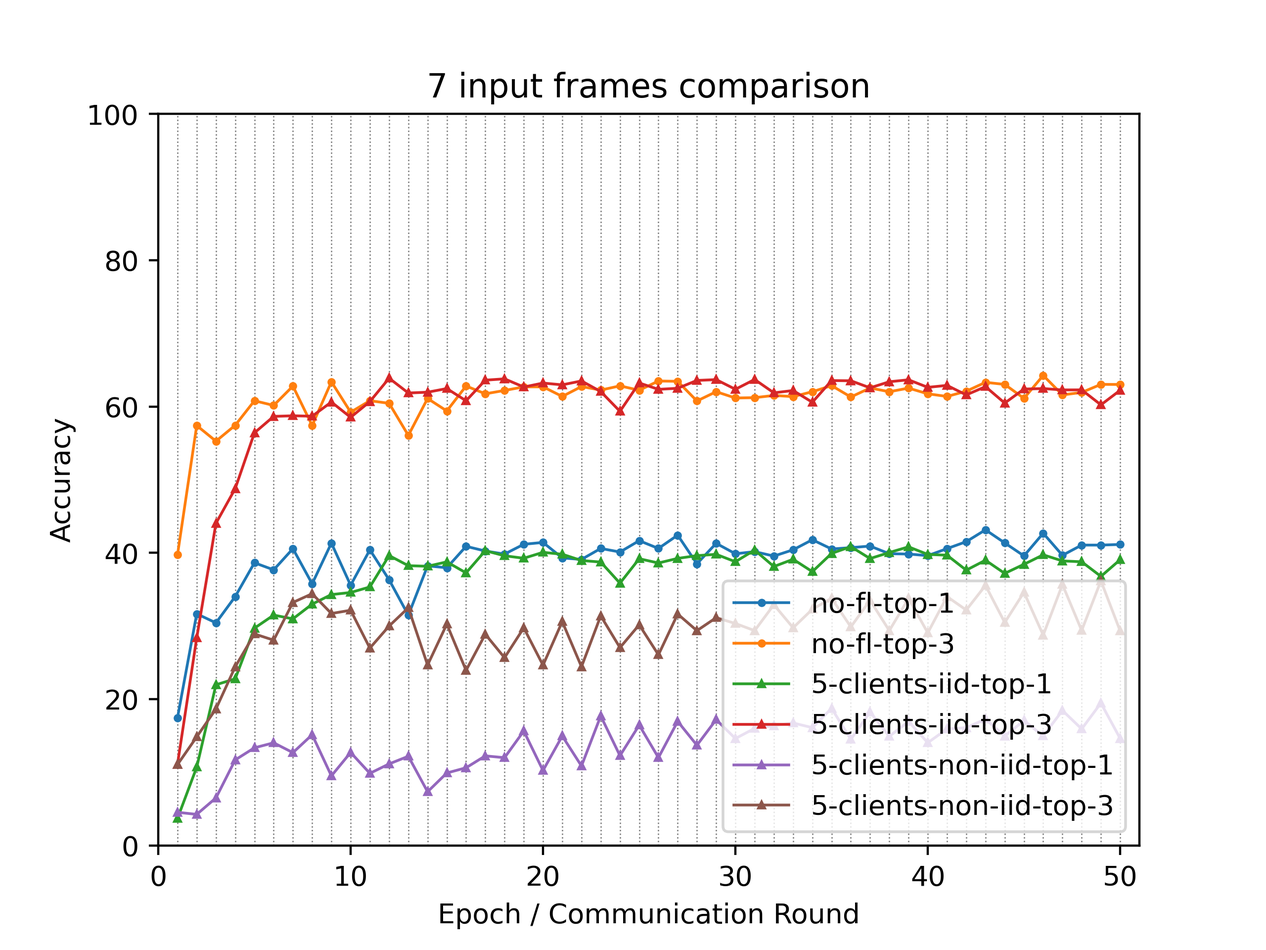
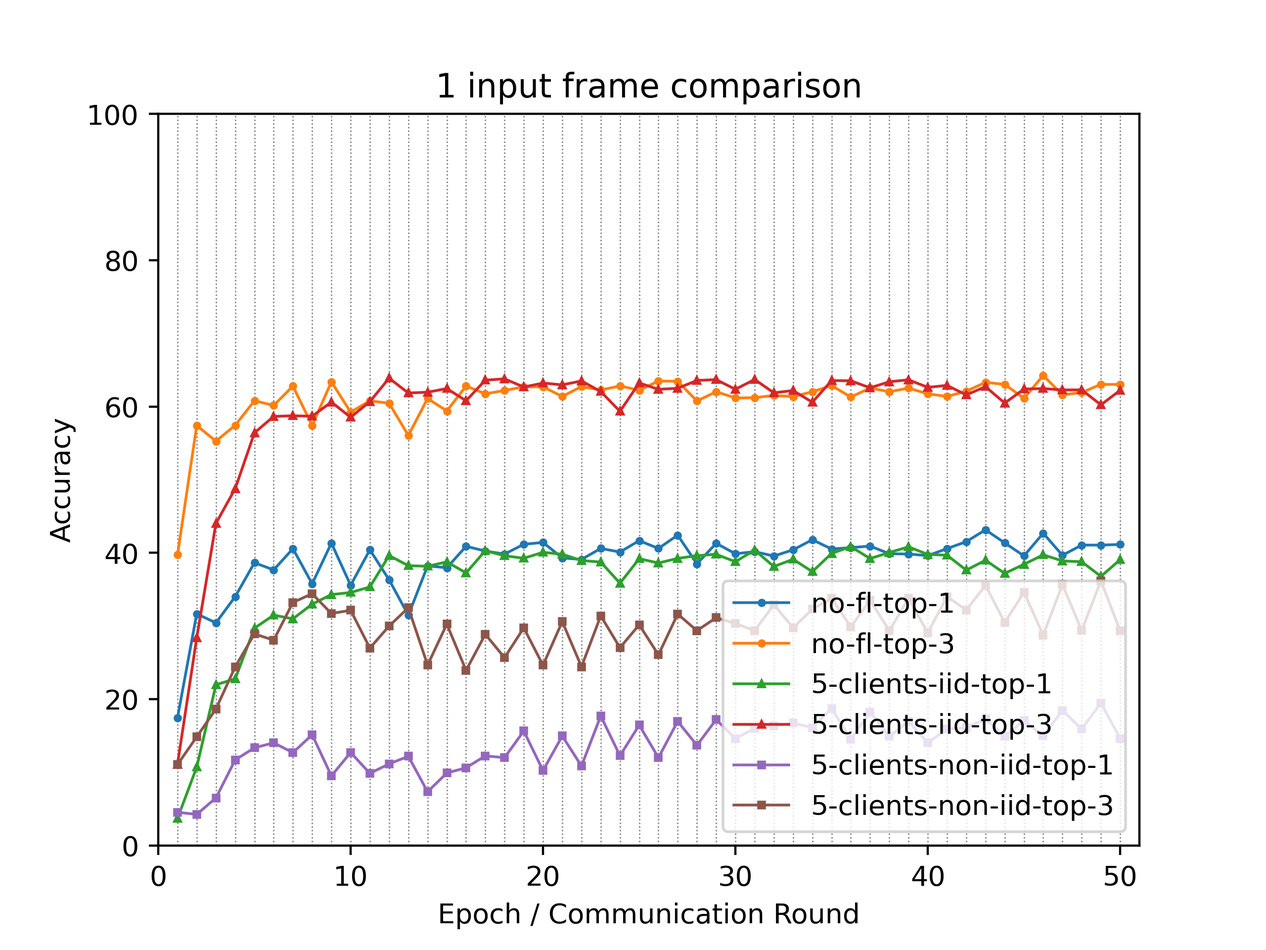
More results

Changed region(s): [[0.3438, 0.0625, 0.6875, 0.125]]

diff --git a/results/5_clients_7_frames/raw_5_clients_non_iid_7_frames.py b/results/5_clients_7_frames/raw_5_clients_non_iid_7_frames.py
@@ -1,0 +1,1 @@
+results = [{'msg': 'Model aggregation done!\nGlobal model written to persistent storage.', 'test_result': {'test-top1': 3.7037037037037037, 'test-top3': 10.993237793907811, 'test_cluster-top1': 3.7037037037037037, 'test_cluster-top3': 8.486878838637633}, 'elapsed_time': 166.45572900772095}, {'msg': 'Model aggregation done!\nGlobal model written to persistent storage.', 'test_result': {'test-top1': 4.293070289720206, 'test-top3': 20.559588059989135, 'test_cluster-top1': 4.590855512128544, 'test_cluster-top3': 21.322662696197035}, 'elapsed_time': 335.90355229377747}, {'msg': 'Model aggregation done!\nGlobal model written to persistent storage.', 'test_result': {'test-top1': 6.532663316582915, 'test-top3': 27.71884111728286, 'test_cluster-top1': 8.337986227433463, 'test_cluster-top3': 28.612196786401142}, 'elapsed_time': 504.5325434207916}, {'msg': 'Model aggregation done!\nGlobal model written to persistent storage.', 'test_result': {'test-top1': 6.774613809789689, 'test-top3': 16.37818723245859, 'test_cluster-top1': 7.22749550220237, 'test_cluster-top3': 17.73683230969663}, 'elapsed_time': 672.9317405223846}, {'msg': 'Model aggregation done!\nGlobal model written to persistent storage.', 'test_result': {'test-top1': 6.526459457782741, 'test-top3': 23.41336310806904, 'test_cluster-top1': 5.111979651343136, 'test_cluster-top3': 22.699919348415648}, 'elapsed_time': 841.4730429649353}, {'msg': 'Model aggregation done!\nGlobal model written to persistent storage.', 'test_result': {'test-top1': 8.49928655623798, 'test-top3': 23.02252000744463, 'test_cluster-top1': 7.56250387741175, 'test_cluster-top3': 25.14423971710404}, 'elapsed_time': 1009.692296743393}, {'msg': 'Model aggregation done!\nGlobal model written to persistent storage.', 'test_result': {'test-top1': 11.433711768720144, 'test-top3': 27.594763942699338, 'test_cluster-top1': 13.158384515168434, 'test_cluster-top3': 30.070103603022012}, 'elapsed_time': 1177.5003213882446}, {'msg': 'Model aggregation done!\nGlobal model written to persistent storage.', 'test_result': {'test-top1': 14.349525404565128, 'test-top3': 36.354612567597975, 'test_cluster-top1': 12.271232706033619, 'test_cluster-top3': 36.46628202363452}, 'elapsed_time': 1345.5594830513}, {'msg': 'Model aggregation done!\nGlobal model written to persistent storage.', 'test_result': {'test-top1': 12.959861033326218, 'test-top3': 28.450896457123307, 'test_cluster-top1': 9.572554128668031, 'test_cluster-top3': 29.90880327516413}, 'elapsed_time': 1513.3714590072632}, {'msg': 'Model aggregation done!\nGlobal model written to persistent storage.', 'test_result': {'test-top1': 10.552763819095478, 'test-top3': 21.08071220299026, 'test_cluster-top1': 10.503132948694088, 'test_cluster-top3': 21.955456293814752}, 'elapsed_time': 1682.61843252182}, {'msg': 'Model aggregation done!\nGlobal model written to persistent storage.', 'test_result': {'test-top1': 21.099323777497514, 'test-top3': 41.10056454925755, 'test_cluster-top1': 18.51851851851852, 'test_cluster-top3': 39.133941311495754}, 'elapsed_time': 1851.5281217098236}, {'msg': 'Model aggregation done!\nGlobal model written to persistent storage.', 'test_result': {'test-top1': 17.20330045288169, 'test-top3': 29.604814194428936, 'test_cluster-top1': 20.10670637136299, 'test_cluster-top3': 28.283392269991936}, 'elapsed_time': 2020.209311723709}, {'msg': 'Model aggregation done!\nGlobal model written to persistent storage.', 'test_result': {'test-top1': 16.750418758575744, 'test-top3': 37.14250263474672, 'test_cluster-top1': 14.610087472515815, 'test_cluster-top3': 34.642347540169986}, 'elapsed_time': 2188.758001804352}, {'msg': 'Model aggregation done!\nGlobal model written to persistent storage.', 'test_result': {'test-top1': 21.91823314101371, 'test-top3': 40.827594763943175, 'test_cluster-top1': 28.469508033997148, 'test_cluster-top3': 49.53160866058688}, 'elapsed_time': 2358.13822889328}, {'msg': 'Model aggregation done!\nGlobal model written to persistent storage.', 'test_result': {'test-top1': 18.121471554597427, 'test-top3': 46.98802654872913, 'test_cluster-top1': 21.17377008451955, 'test_cluster-top3': 49.61846268378932}, 'elapsed_time': 2525.927980184555}, {'msg': 'Model aggregation done!\nGlobal model written to persistent storage.', 'test_result': {'test-top1': 20.90080029778522, 'test-top3': 35.393014454991004, 'test_cluster-top1': 24.54246541348719, 'test_cluster-top3': 38.321235808672995}, 'elapsed_time': 2694.9525849819183}, {'msg': 'Model aggregation done!\nGlobal model written to persistent storage.', 'test_result': {'test-top1': 18.83491531685406, 'test-top3': 38.84235994599432, 'test_cluster-top1': 20.43551088682556, 'test_cluster-top3': 40.17618958992493}, 'elapsed_time': 2863.543007850647}, {'msg': 'Model aggregation done!\nGlobal model written to persistent storage.', 'test_result': {'test-top1': 13.276257832371735, 'test-top3': 28.804516409206528, 'test_cluster-top1': 13.977293876791364, 'test_cluster-top3': 26.006576090328185}, 'elapsed_time': 3031.743930578232}, {'msg': 'Model aggregation done!\nGlobal model written to persistent storage.', 'test_result': {'test-top1': 13.139772937347963, 'test-top3': 38.69346733479015, 'test_cluster-top1': 14.740368508266096, 'test_cluster-top3': 47.63943172653391}, 'elapsed_time': 3200.6698327064514}, {'msg': 'Model aggregation done!\nGlobal model written to persistent storage.', 'test_result': {'test-top1': 20.987654319804363, 'test-top3': 38.79272907559293, 'test_cluster-top1': 23.74216762826478, 'test_cluster-top3': 34.87809417457659}, 'elapsed_time': 3368.173099756241}, {'msg': 'Model aggregation done!\nGlobal model written to persistent storage.', 'test_result': {'test-top1': 19.00862336373224, 'test-top3': 38.90439853588932, 'test_cluster-top1': 19.244369998138843, 'test_cluster-top3': 37.73186922265649}, 'elapsed_time': 3536.332264184952}, {'msg': 'Model aggregation done!\nGlobal model written to persistent storage.', 'test_result': {'test-top1': 22.78677337280137, 'test-top3': 45.28816924008478, 'test_cluster-top1': 22.94807370160589, 'test_cluster-top3': 51.541658910659876}, 'elapsed_time': 3704.08846449852}, {'msg': 'Model aggregation done!\nGlobal model written to persistent storage.', 'test_result': {'test-top1': 16.123829021651467, 'test-top3': 39.344872510701656, 'test_cluster-top1': 16.874495936472485, 'test_cluster-top3': 40.616663564737266}, 'elapsed_time': 3871.85297703743}, {'msg': 'Model aggregation done!\nGlobal model written to persistent storage.', 'test_result': {'test-top1': 27.861529871343464, 'test-top3': 40.18239344754181, 'test_cluster-top1': 28.63701222136518, 'test_cluster-top3': 42.9989453421107}, 'elapsed_time': 4038.8875024318695}, {'msg': 'Model aggregation done!\nGlobal model written to persistent storage.', 'test_result': {'test-top1': 18.23314101371053, 'test-top3': 37.02462931943669, 'test_cluster-top1': 19.87716359575656, 'test_cluster-top3': 34.74781313977294}, 'elapsed_time': 4207.389463186264}, {'msg': 'Model aggregation done!\nGlobal model written to persistent storage.', 'test_result': {'test-top1': 32.75637446491718, 'test-top3': 44.45064830324462, 'test_cluster-top1': 32.632297288913705, 'test_cluster-top3': 44.75463738445313}, 'elapsed_time': 4376.427686929703}, {'msg': 'Model aggregation done!\nGlobal model written to persistent storage.', 'test_result': {'test-top1': 16.806253489670574, 'test-top3': 35.455053042992745, 'test_cluster-top1': 21.59563248340468, 'test_cluster-top3': 40.95787579874682}, 'elapsed_time': 4544.164435625076}, {'msg': 'Model aggregation done!\nGlobal model written to persistent storage.', 'test_result': {'test-top1': 26.484273216048294, 'test-top3': 46.193932624200166, 'test_cluster-top1': 23.35132452196057, 'test_cluster-top3': 42.24827842918295}, 'elapsed_time': 4710.582869529724}, {'msg': 'Model aggregation done!\nGlobal model written to persistent storage.', 'test_result': {'test-top1': 22.40213412742726, 'test-top3': 38.07928531546622, 'test_cluster-top1': 29.331844407221293, 'test_cluster-top3': 42.54606365159129}, 'elapsed_time': 4880.881422281265}, {'msg': 'Model aggregation done!\nGlobal model written to persistent storage.', 'test_result': {'test-top1': 23.915875674669646, 'test-top3': 43.36497301321422, 'test_cluster-top1': 22.28426081022396, 'test_cluster-top3': 46.07605930889013}, 'elapsed_time': 5049.197821855545}, {'msg': 'Model aggregation done!\nGlobal model written to persistent storage.', 'test_result': {'test-top1': 17.476270240089335, 'test-top3': 40.72212916434022, 'test_cluster-top1': 21.46535144860103, 'test_cluster-top3': 46.74607605930889}, 'elapsed_time': 5217.587727069855}, {'msg': 'Model aggregation done!\nGlobal model written to persistent storage.', 'test_result': {'test-top1': 25.634344560424495, 'test-top3': 39.487561261212385, 'test_cluster-top1': 27.551336931571438, 'test_cluster-top3': 37.930392704262054}, 'elapsed_time': 5384.997723579407}, {'msg': 'Model aggregation done!\nGlobal model written to persistent storage.', 'test_result': {'test-top1': 19.61039766734909, 'test-top3': 45.83410881568336, 'test_cluster-top1': 23.562255723059742, 'test_cluster-top3': 54.28996836032012}, 'elapsed_time': 5552.315092563629}, {'msg': 'Model aggregation done!\nGlobal model written to persistent storage.', 'test_result': {'test-top1': 30.0142688752404, 'test-top3': 46.522737142502635, 'test_cluster-top1': 33.45741050933681, 'test_cluster-top3': 52.50325702587009}, 'elapsed_time': 5720.663455247879}, {'msg': 'Model aggregation done!\nGlobal model written to persistent storage.', 'test_result': {'test-top1': 26.422234629939823, 'test-top3': 47.83795520813946, 'test_cluster-top1': 25.39239406911099, 'test_cluster-top3': 50.67311867981885}, 'elapsed_time': 5888.952857971191}, {'msg': 'Model aggregation done!\nGlobal model written to persistent storage.', 'test_result': {'test-top1': 23.72355605044431, 'test-top3': 35.461256901792915, 'test_cluster-top1': 25.193870586085477, 'test_cluster-top3': 40.7035175879397}, 'elapsed_time': 6057.0156581401825}, {'msg': 'Model aggregation done!\nGlobal model written to persistent storage.', 'test_result': {'test-top1': 22.079533469818227, 'test-top3': 43.023760779204665, 'test_cluster-top1': 20.702276816179662, 'test_cluster-top3': 45.312984676468766}, 'elapsed_time': 6223.66389131546}, {'msg': 'Model aggregation done!\nGlobal model written to persistent storage.', 'test_result': {'test-top1': 34.14603883615609, 'test-top3': 48.923630498169864, 'test_cluster-top1': 33.76139959054532, 'test_cluster-top3': 50.046528941001306}, 'elapsed_time': 6392.192548274994}, {'msg': 'Model aggregation done!\nGlobal model written to persistent storage.', 'test_result': {'test-top1': 30.138346051243875, 'test-top3': 46.4606985545009, 'test_cluster-top1': 33.14101371052795, 'test_cluster-top3': 48.73131087536448}, 'elapsed_time': 6560.953839540482}, {'msg': 'Model aggregation done!\nGlobal model written to persistent storage.', 'test_result': {'test-top1': 24.257087904892664, 'test-top3': 34.084000248154354, 'test_cluster-top1': 24.064768285873814, 'test_cluster-top3': 33.94751535455053}, 'elapsed_time': 6729.287982463837}, {'msg': 'Model aggregation done!\nGlobal model written to persistent storage.', 'test_result': {'test-top1': 31.881630374092687, 'test-top3': 53.17947763508903, 'test_cluster-top1': 31.83820336249147, 'test_cluster-top3': 57.00105465599603}, 'elapsed_time': 6897.7102954387665}, {'msg': 'Model aggregation done!\nGlobal model written to persistent storage.', 'test_result': {'test-top1': 34.20187356535765, 'test-top3': 46.14430175569204, 'test_cluster-top1': 34.43141634096408, 'test_cluster-top3': 46.61579502450524}, 'elapsed_time': 7067.011428833008}, {'msg': 'Model aggregation done!\nGlobal model written to persistent storage.', 'test_result': {'test-top1': 30.0142688752404, 'test-top3': 50.89025373782493, 'test_cluster-top1': 31.068924871269928, 'test_cluster-top3': 56.659842421986475}, 'elapsed_time': 7235.37380695343}, {'msg': 'Model aggregation done!\nGlobal model written to persistent storage.', 'test_result': {'test-top1': 28.308207703299363, 'test-top3': 43.60071964762082, 'test_cluster-top1': 32.51442397171041, 'test_cluster-top3': 45.86512810968422}, 'elapsed_time': 7404.288648843765}, {'msg': 'Model aggregation done!\nGlobal model written to persistent storage.', 'test_result': {'test-top1': 35.75283826540108, 'test-top3': 54.37682238328589, 'test_cluster-top1': 41.65891184316645, 'test_cluster-top3': 58.7071158260438}, 'elapsed_time': 7573.465892076492}, {'msg': 'Model aggregation done!\nGlobal model written to persistent storage.', 'test_result': {'test-top1': 29.82815311123519, 'test-top3': 45.07723804206216, 'test_cluster-top1': 32.36553136050623, 'test_cluster-top3': 47.36025808052609}, 'elapsed_time': 7742.181866407394}, {'msg': 'Model aggregation done!\nGlobal model written to persistent storage.', 'test_result': {'test-top1': 25.83286804392332, 'test-top3': 45.48669272287363, 'test_cluster-top1': 27.588560084372478, 'test_cluster-top3': 45.42465413487189}, 'elapsed_time': 7909.567089796066}, {'msg': 'Model aggregation done!\nGlobal model written to persistent storage.', 'test_result': {'test-top1': 33.45741050744354, 'test-top3': 46.12569017929152, 'test_cluster-top1': 32.68192815931509, 'test_cluster-top3': 43.76822383522551}, 'elapsed_time': 8078.503528594971}, {'msg': 'Model aggregation done!\nGlobal model written to persistent storage.', 'test_result': {'test-top1': 19.579378373348224, 'test-top3': 42.490228922389726, 'test_cluster-top1': 25.857683479124017, 'test_cluster-top3': 43.092003226006575}, 'elapsed_time': 8246.165164709091}, {'msg': 'Model aggregation done!\nGlobal model written to persistent storage.', 'test_result': {'test-top1': 35.876915439511286, 'test-top3': 49.32688132018115, 'test_cluster-top1': 37.396860847447115, 'test_cluster-top3': 51.157019666232394}, 'elapsed_time': 8414.397685527802}]

diff --git a/results/5_clients_7_frames/raw_5_clients_iid_7_frames.py b/results/5_clients_7_frames/raw_5_clients_iid_7_frames.py
@@ -1,0 +1,1 @@
+results = [{'msg': 'Model aggregation done!\nGlobal model written to persistent storage.', 'test_result': {'test-top1': 3.7967615857063093, 'test-top3': 11.315838451516843, 'test_cluster-top1': 5.633103790557727, 'test_cluster-top3': 11.365469321918233}, 'elapsed_time': 171.1372058391571}, {'msg': 'Model aggregation done!\nGlobal model written to persistent storage.', 'test_result': {'test-top1': 21.521186177802594, 'test-top3': 46.00161300328804, 'test_cluster-top1': 28.903778150009305, 'test_cluster-top3': 59.79899497487437}, 'elapsed_time': 343.71112847328186}, {'msg': 'Model aggregation done!\nGlobal model written to persistent storage.', 'test_result': {'test-top1': 61.56089087270375, 'test-top3': 85.73732861650738, 'test_cluster-top1': 64.74967429599305, 'test_cluster-top3': 88.59110366648055}, 'elapsed_time': 514.0802545547485}, {'msg': 'Model aggregation done!\nGlobal model written to persistent storage.', 'test_result': {'test-top1': 61.300328803096455, 'test-top3': 85.607047583597, 'test_cluster-top1': 59.20342452934772, 'test_cluster-top3': 86.49419939202184}, 'elapsed_time': 690.0395998954773}, {'msg': 'Model aggregation done!\nGlobal model written to persistent storage.', 'test_result': {'test-top1': 67.56002233294505, 'test-top3': 88.02034865686457, 'test_cluster-top1': 72.74644829012692, 'test_cluster-top3': 93.07028972020596}, 'elapsed_time': 856.520486831665}, {'msg': 'Model aggregation done!\nGlobal model written to persistent storage.', 'test_result': {'test-top1': 64.3588311915821, 'test-top3': 88.00173707857078, 'test_cluster-top1': 70.12841987574365, 'test_cluster-top3': 94.08772256343445}, 'elapsed_time': 1031.2711973190308}, {'msg': 'Model aggregation done!\nGlobal model written to persistent storage.', 'test_result': {'test-top1': 70.59991314408353, 'test-top3': 90.7252310937403, 'test_cluster-top1': 75.94763942794, 'test_cluster-top3': 95.98610335628761}, 'elapsed_time': 1205.4813406467438}, {'msg': 'Model aggregation done!\nGlobal model written to persistent storage.', 'test_result': {'test-top1': 68.01910788392124, 'test-top3': 88.17544512686891, 'test_cluster-top1': 77.60406973042627, 'test_cluster-top3': 93.38668651901483}, 'elapsed_time': 1378.0978691577911}, {'msg': 'Model aggregation done!\nGlobal model written to persistent storage.', 'test_result': {'test-top1': 70.35175879207658, 'test-top3': 91.05403561014951, 'test_cluster-top1': 76.7107140641479, 'test_cluster-top3': 94.89422420745704}, 'elapsed_time': 1550.5410466194153}, {'msg': 'Model aggregation done!\nGlobal model written to persistent storage.', 'test_result': {'test-top1': 70.33935107447624, 'test-top3': 90.24133010732676, 'test_cluster-top1': 78.857249209008, 'test_cluster-top3': 95.81239530988275}, 'elapsed_time': 1724.7236261367798}, {'msg': 'Model aggregation done!\nGlobal model written to persistent storage.', 'test_result': {'test-top1': 69.69414976020481, 'test-top3': 90.34679570692971, 'test_cluster-top1': 78.875860781622, 'test_cluster-top3': 96.51343135430237}, 'elapsed_time': 1899.6020896434784}, {'msg': 'Model aggregation done!\nGlobal model written to persistent storage.', 'test_result': {'test-top1': 74.99844903388001, 'test-top3': 91.39524784415907, 'test_cluster-top1': 81.36981202118508, 'test_cluster-top3': 95.62007568707736}, 'elapsed_time': 2072.3005611896515}, {'msg': 'Model aggregation done!\nGlobal model written to persistent storage.', 'test_result': {'test-top1': 74.30982070469415, 'test-top3': 92.4499038401886, 'test_cluster-top1': 79.62032384000942, 'test_cluster-top3': 95.32229046466902}, 'elapsed_time': 2247.6812856197357}, {'msg': 'Model aggregation done!\nGlobal model written to persistent storage.', 'test_result': {'test-top1': 71.56151125621719, 'test-top3': 92.04665301628404, 'test_cluster-top1': 77.36211923816614, 'test_cluster-top3': 94.61505056144922}, 'elapsed_time': 2422.764358520508}, {'msg': 'Model aggregation done!\nGlobal model written to persistent storage.', 'test_result': {'test-top1': 69.97952726595943, 'test-top3': 89.42242074570383, 'test_cluster-top1': 75.19076865810534, 'test_cluster-top3': 92.54296172219121}, 'elapsed_time': 2589.2212619781494}, {'msg': 'Model aggregation done!\nGlobal model written to persistent storage.', 'test_result': {'test-top1': 70.95973695260034, 'test-top3': 91.10987033935108, 'test_cluster-top1': 75.08530305850239, 'test_cluster-top3': 92.95241640300267}, 'elapsed_time': 2755.4908623695374}, {'msg': 'Model aggregation done!\nGlobal model written to persistent storage.', 'test_result': {'test-top1': 70.11601215577672, 'test-top3': 90.3281841305292, 'test_cluster-top1': 76.76654878956293, 'test_cluster-top3': 95.55183324027546}, 'elapsed_time': 2921.7240755558014}, {'msg': 'Model aggregation done!\nGlobal model written to persistent storage.', 'test_result': {'test-top1': 68.53402816551895, 'test-top3': 89.61474036850922, 'test_cluster-top1': 73.19932998324958, 'test_cluster-top3': 94.99348594825982}, 'elapsed_time': 3089.786246776581}, {'msg': 'Model aggregation done!\nGlobal model written to persistent storage.', 'test_result': {'test-top1': 67.03269433398364, 'test-top3': 90.59495005893666, 'test_cluster-top1': 70.98455239158757, 'test_cluster-top3': 93.8643836466282}, 'elapsed_time': 3257.3329899311066}, {'msg': 'Model aggregation done!\nGlobal model written to persistent storage.', 'test_result': {'test-top1': 66.08350393755707, 'test-top3': 89.0998200880948, 'test_cluster-top1': 71.90892735281345, 'test_cluster-top3': 93.57900614182022}, 'elapsed_time': 3425.3520460128784}, {'msg': 'Model aggregation done!\nGlobal model written to persistent storage.', 'test_result': {'test-top1': 63.372417643774426, 'test-top3': 87.12078913083938, 'test_cluster-top1': 67.18158694708109, 'test_cluster-top3': 89.36658601650227}, 'elapsed_time': 3592.2566595077515}, {'msg': 'Model aggregation done!\nGlobal model written to persistent storage.', 'test_result': {'test-top1': 69.47701469935882, 'test-top3': 88.03896023326509, 'test_cluster-top1': 75.97245486692722, 'test_cluster-top3': 94.2180035982381}, 'elapsed_time': 3760.5627524852753}, {'msg': 'Model aggregation done!\nGlobal model written to persistent storage.', 'test_result': {'test-top1': 65.57478751594283, 'test-top3': 88.3677647496743, 'test_cluster-top1': 64.21614244059805, 'test_cluster-top3': 89.18667411129722}, 'elapsed_time': 3928.629982948303}, {'msg': 'Model aggregation done!\nGlobal model written to persistent storage.', 'test_result': {'test-top1': 70.07878900297567, 'test-top3': 90.48328060053353, 'test_cluster-top1': 71.5428996836032, 'test_cluster-top3': 94.65847757305043}, 'elapsed_time': 4095.0740945339203}, {'msg': 'Model aggregation done!\nGlobal model written to persistent storage.', 'test_result': {'test-top1': 74.82474098510856, 'test-top3': 92.00942986537626, 'test_cluster-top1': 80.02977852224083, 'test_cluster-top3': 94.55921583224766}, 'elapsed_time': 4262.160899877548}, {'msg': 'Model aggregation done!\nGlobal model written to persistent storage.', 'test_result': {'test-top1': 66.89620944037982, 'test-top3': 88.249891432471, 'test_cluster-top1': 71.78485017680998, 'test_cluster-top3': 93.58521000062039}, 'elapsed_time': 4430.074262619019}, {'msg': 'Model aggregation done!\nGlobal model written to persistent storage.', 'test_result': {'test-top1': 74.42149016309726, 'test-top3': 92.18934177058131, 'test_cluster-top1': 81.21471555307402, 'test_cluster-top3': 95.90545319188536}, 'elapsed_time': 4596.715828895569}, {'msg': 'Model aggregation done!\nGlobal model written to persistent storage.', 'test_result': {'test-top1': 68.4409702820964, 'test-top3': 90.24753396612694, 'test_cluster-top1': 75.1287300701036, 'test_cluster-top3': 93.8643836466282}, 'elapsed_time': 4762.89985871315}, {'msg': 'Model aggregation done!\nGlobal model written to persistent storage.', 'test_result': {'test-top1': 75.48235001792698, 'test-top3': 92.0962838885787, 'test_cluster-top1': 82.44307959550841, 'test_cluster-top3': 96.55065450710342}, 'elapsed_time': 4930.1451587677}, {'msg': 'Model aggregation done!\nGlobal model written to persistent storage.', 'test_result': {'test-top1': 64.35262733041534, 'test-top3': 87.25107016564303, 'test_cluster-top1': 71.95855822321484, 'test_cluster-top3': 91.5069173025622}, 'elapsed_time': 5099.260639429092}, {'msg': 'Model aggregation done!\nGlobal model written to persistent storage.', 'test_result': {'test-top1': 69.36534524284896, 'test-top3': 89.4534400397047, 'test_cluster-top1': 72.34319746882561, 'test_cluster-top3': 92.92760096780198}, 'elapsed_time': 5266.917717218399}, {'msg': 'Model aggregation done!\nGlobal model written to persistent storage.', 'test_result': {'test-top1': 70.37037036658384, 'test-top3': 90.07382591972207, 'test_cluster-top1': 74.38426701408277, 'test_cluster-top3': 90.99820088094795}, 'elapsed_time': 5433.991016387939}, {'msg': 'Model aggregation done!\nGlobal model written to persistent storage.', 'test_result': {'test-top1': 72.13226626772644, 'test-top3': 90.80588125814256, 'test_cluster-top1': 75.7677275265215, 'test_cluster-top3': 92.53675786339103}, 'elapsed_time': 5600.9327347278595}, {'msg': 'Model aggregation done!\nGlobal model written to persistent storage.', 'test_result': {'test-top1': 74.70686766790526, 'test-top3': 92.45610769898877, 'test_cluster-top1': 84.05608288355357, 'test_cluster-top3': 95.50220236987406}, 'elapsed_time': 5768.621817111969}, {'msg': 'Model aggregation done!\nGlobal model written to persistent storage.', 'test_result': {'test-top1': 73.59637694456742, 'test-top3': 91.29598610146301, 'test_cluster-top1': 79.03716111421303, 'test_cluster-top3': 94.53440039704697}, 'elapsed_time': 5935.95001745224}, {'msg': 'Model aggregation done!\nGlobal model written to persistent storage.', 'test_result': {'test-top1': 72.54792480923135, 'test-top3': 90.37781500093058, 'test_cluster-top1': 79.34735405422173, 'test_cluster-top3': 96.23425770829456}, 'elapsed_time': 6102.404079437256}, {'msg': 'Model aggregation done!\nGlobal model written to persistent storage.', 'test_result': {'test-top1': 73.55915378987312, 'test-top3': 90.7810658210486, 'test_cluster-top1': 75.42031143371177, 'test_cluster-top3': 93.41150195421552}, 'elapsed_time': 6267.59996342659}, {'msg': 'Model aggregation done!\nGlobal model written to persistent storage.', 'test_result': {'test-top1': 69.29710279415379, 'test-top3': 89.04398535889324, 'test_cluster-top1': 73.77628885166574, 'test_cluster-top3': 90.93616229294621}, 'elapsed_time': 6432.818296909332}, {'msg': 'Model aggregation done!\nGlobal model written to persistent storage.', 'test_result': {'test-top1': 67.85780755630002, 'test-top3': 89.21769340529809, 'test_cluster-top1': 74.12990880327564, 'test_cluster-top3': 94.52819653824679}, 'elapsed_time': 6599.382552862167}, {'msg': 'Model aggregation done!\nGlobal model written to persistent storage.', 'test_result': {'test-top1': 69.48942241885244, 'test-top3': 89.88150629691668, 'test_cluster-top1': 72.47347850362925, 'test_cluster-top3': 93.59141385942056}, 'elapsed_time': 6766.178775548935}, {'msg': 'Model aggregation done!\nGlobal model written to persistent storage.', 'test_result': {'test-top1': 63.35380606548064, 'test-top3': 87.06495440163782, 'test_cluster-top1': 66.56120106706372, 'test_cluster-top3': 90.40883429493145}, 'elapsed_time': 6933.939516544342}, {'msg': 'Model aggregation done!\nGlobal model written to persistent storage.', 'test_result': {'test-top1': 68.7573670823252, 'test-top3': 90.67560022333892, 'test_cluster-top1': 73.66461939326261, 'test_cluster-top3': 94.96246665425895}, 'elapsed_time': 7101.836614608765}, {'msg': 'Model aggregation done!\nGlobal model written to persistent storage.', 'test_result': {'test-top1': 73.63980395616865, 'test-top3': 91.77988708976984, 'test_cluster-top1': 76.90303368695328, 'test_cluster-top3': 95.59526025187667}, 'elapsed_time': 7270.274940252304}, {'msg': 'Model aggregation done!\nGlobal model written to persistent storage.', 'test_result': {'test-top1': 68.71394006883072, 'test-top3': 90.19169923692537, 'test_cluster-top1': 74.7068676716918, 'test_cluster-top3': 93.81475277622681}, 'elapsed_time': 7437.553568601608}, {'msg': 'Model aggregation done!\nGlobal model written to persistent storage.', 'test_result': {'test-top1': 67.70271108250914, 'test-top3': 89.43482846330417, 'test_cluster-top1': 72.92015633724176, 'test_cluster-top3': 94.61505056144922}, 'elapsed_time': 7604.415075540543}, {'msg': 'Model aggregation done!\nGlobal model written to persistent storage.', 'test_result': {'test-top1': 67.72752652149637, 'test-top3': 89.52788634530678, 'test_cluster-top1': 72.23773186922266, 'test_cluster-top3': 91.65580991376636}, 'elapsed_time': 7772.342702388763}, {'msg': 'Model aggregation done!\nGlobal model written to persistent storage.', 'test_result': {'test-top1': 72.77126372603759, 'test-top3': 90.63837707053787, 'test_cluster-top1': 75.91662013772566, 'test_cluster-top3': 92.9213971090018}, 'elapsed_time': 7938.9102993011475}, {'msg': 'Model aggregation done!\nGlobal model written to persistent storage.', 'test_result': {'test-top1': 65.10949810640311, 'test-top3': 87.91488305536835, 'test_cluster-top1': 71.48706495440163, 'test_cluster-top3': 91.37663626775854}, 'elapsed_time': 8107.615478277206}, {'msg': 'Model aggregation done!\nGlobal model written to persistent storage.', 'test_result': {'test-top1': 65.24598299953362, 'test-top3': 87.9521062081694, 'test_cluster-top1': 69.3963645387431, 'test_cluster-top3': 92.40647682858739}, 'elapsed_time': 8275.143419265747}, {'msg': 'Model aggregation done!\nGlobal model written to persistent storage.', 'test_result': {'test-top1': 66.85278242877861, 'test-top3': 88.96953905329114, 'test_cluster-top1': 75.55059246851542, 'test_cluster-top3': 94.66468143185061}, 'elapsed_time': 8442.030393838882}]

diff --git a/results/5_clients_7_frames/raw_7_frames_non_fedlearn.py b/results/5_clients_7_frames/raw_7_frames_non_fedlearn.py
@@ -1,0 +1,1 @@
+results = {0: {'test-top1': 46.71767307692308, 'test-top3': 76.24689826302729}, 1: {'test-top1': 52.639923076923075, 'test-top3': 80.00551426799007}, 2: {'test-top1': 44.57196029776675, 'test-top3': 72.66197952853598}, 3: {'test-top1': 66.85208188585608, 'test-top3': 85.60725124069478}, 4: {'test-top1': 46.81486104218362, 'test-top3': 74.33484987593053}, 5: {'test-top1': 69.70705831265509, 'test-top3': 87.11469540942927}, 6: {'test-top1': 70.4149435483871, 'test-top3': 90.75682382133995}, 7: {'test-top1': 67.40694789081886, 'test-top3': 88.151364764268}, 8: {'test-top1': 54.49131513647643, 'test-top3': 80.88709677419355}, 9: {'test-top1': 56.47022332506204, 'test-top3': 82.94665012406948}, 10: {'test-top1': 40.26330272952854, 'test-top3': 69.31141439205955}, 11: {'test-top1': 33.47187779156327, 'test-top3': 66.12903225806451}, 12: {'test-top1': 67.8749652605459, 'test-top3': 86.2710229528536}, 13: {'test-top1': 63.083126550868485, 'test-top3': 82.3697270471464}, 14: {'test-top1': 54.34656761786601, 'test-top3': 77.35042741935483}, 15: {'test-top1': 75.91466749379653, 'test-top3': 88.95023449131513}, 16: {'test-top1': 60.935346153846154, 'test-top3': 84.54714640198512}, 17: {'test-top1': 64.19561600496277, 'test-top3': 83.1134547146402}, 18: {'test-top1': 67.72746091811415, 'test-top3': 87.4558864764268}, 19: {'test-top1': 72.67162965260546, 'test-top3': 90.49627791563276}, 20: {'test-top1': 63.36641873449132, 'test-top3': 85.569341191067}, 21: {'test-top1': 59.87593052109181, 'test-top3': 83.59801488833747}, 22: {'test-top1': 66.20898821339951, 'test-top3': 85.14267990074441}, 23: {'test-top1': 69.53267183622829, 'test-top3': 88.79652605459057}, 24: {'test-top1': 76.07733684863524, 'test-top3': 89.81389578163771}, 25: {'test-top1': 65.70650682382134, 'test-top3': 86.24689826302729}, 26: {'test-top1': 65.72098138957816, 'test-top3': 86.04218362282879}, 27: {'test-top1': 68.86269665012406, 'test-top3': 87.81017369727047}, 28: {'test-top1': 67.84463771712159, 'test-top3': 86.96443362282878}, 29: {'test-top1': 72.23807568238213, 'test-top3': 90.01240694789082}, 30: {'test-top1': 68.92610980148883, 'test-top3': 87.75434243176178}, 31: {'test-top1': 71.02770905707196, 'test-top3': 87.75985669975186}, 32: {'test-top1': 67.65370843672457, 'test-top3': 88.51736972704714}, 33: {'test-top1': 66.91618424317618, 'test-top3': 85.71960297766749}, 34: {'test-top1': 64.07499317617865, 'test-top3': 86.56878970223325}, 35: {'test-top1': 67.69161848635235, 'test-top3': 85.11786600496278}, 36: {'test-top1': 70.88020409429281, 'test-top3': 86.67424875930521}, 37: {'test-top1': 73.21960297766749, 'test-top3': 89.1439205955335}, 38: {'test-top1': 60.6816929280397, 'test-top3': 82.23325062034739}, 39: {'test-top1': 59.06258622828784, 'test-top3': 82.29528535980148}, 40: {'test-top1': 62.30493548387096, 'test-top3': 86.00496277915633}, 41: {'test-top1': 67.56203473945409, 'test-top3': 88.8833746898263}, 42: {'test-top1': 61.997518610421835, 'test-top3': 81.63151364764268}, 43: {'test-top1': 70.09856637717121, 'test-top3': 89.28039702233251}, 44: {'test-top1': 70.70719602977667, 'test-top3': 88.74069478908189}, 45: {'test-top1': 63.653156947890814, 'test-top3': 85.76302729528535}, 46: {'test-top1': 69.27350434243176, 'test-top3': 86.1848635235732}, 47: {'test-top1': 61.854149503722084, 'test-top3': 82.40074441687345}, 48: {'test-top1': 70.6575682382134, 'test-top3': 86.88585607940446}, 49: {'test-top1': 66.21450248138959, 'test-top3': 84.48511166253101}, 50: {'test-top1': 66.21450248138959, 'test-top3': 84.48511166253101, 'test-top1-clustering': 68.9874553349876, 'test-top3-clustering': 85.44044665012407}}

diff --git a/results/5_clients_7_frames/extract_results.py b/results/5_clients_7_frames/extract_results.py
@@ -1,0 +1,43 @@
+def extract_results(fn):
+    data = {}
+    last_epoch = -1
+    clustering = False
+    with open(fn, 'r') as f:
+        for l in f:
+            if 'clustering...' in l:
+                clustering = True
+            if l.startswith('Test'):
+                s = l.split('\t')
+                epoch = int(s[0].split('[')[1].split(']')[0])
+                top_1 = float(s[-2].split(' ')[1].split(' ')[0])
+                top_3 = float(s[-1].split(' ')[1].split(' ')[0])
+                if clustering:
+                    data.setdefault(epoch, {}).setdefault('test-top1-clustering', []).append(top_1)
+                    data[epoch].setdefault('test-top3-clustering', []).append(top_3)
+                else:
+                    data.setdefault(epoch, {}).setdefault('test-top1', []).append(top_1)
+                    data[epoch].setdefault('test-top3', []).append(top_3)
+                if last_epoch != epoch:
+                    print('Extracting epoch', epoch)
+                    last_epoch = epoch
+    return data
+
+def avg(_list):
+    return sum(_list) / len(_list)
+
+def average_epochs(data):
+    for epoch, d in data.items():
+        d['test-top1'] = avg(d['test-top1'])
+        d['test-top3'] = avg(d['test-top3'])
+        if 'test-top1-clustering' in d:
+            d['test-top1-clustering'] = avg(d['test-top1-clustering'])
+            d['test-top3-clustering'] = avg(d['test-top3-clustering'])
+    return data
+
+if __name__ == '__main__':
+    fn = '7_frames_non_fedlearn.log'
+    data = extract_results(fn)
+    average_epochs(data)
+    print(data)
+
+

diff --git a/results/5_clients_7_frames/run.py b/results/5_clients_7_frames/run.py
@@ -15,7 +15,7 @@ for i in range(epochs):
         i+1, linewidth=0.5, color='black', linestyle='dotted', alpha=0.5)
 
 # No FL results
-from raw_non_fedlearn_1_frame import results
+from raw_7_frames_non_fedlearn import results
 types = ['test-top1', 'test-top3']
 legend = {'test-top1': 'no-fl-top-1', 'test-top3': 'no-fl-top-3'}
 ### IMPORTANT!!!!!!! LAST EPOCH IS LAST TEST WITH BEST RESULT AND CLUSTERING
@@ -29,7 +29,7 @@ for t in types:
     plt.legend(loc="lower right")
 
 # IID results:
-from raw_5_clients_iid_1_frame import results
+from raw_5_clients_iid_7_frames import results
 epochs = len(results)
 X_AXIS = list(map(lambda x: x+1, range(epochs)))
 types = ['test-top1', 'test-top3']
@@ -47,7 +47,7 @@ for t in types:
     plt.legend(loc="lower right")
 
 # NON-IID results:
-from raw_5_clients_non_iid_1_frame import results
+from raw_5_clients_non_iid_7_frames import results
 epochs = len(results)
 X_AXIS = list(map(lambda x: x+1, range(epochs)))
 types = ['test-top1', 'test-top3']
@@ -64,11 +64,12 @@ for t in types:
              markersize=MARKER_SIZE)
     plt.legend(loc="lower right")
 
+
 # Limits
 plt.axis(xmin=0, xmax=epochs+1, ymin=0, ymax=100)
 
 # Labels
-plt.title('1 input frame comparison')
+plt.title('7 input frames comparison')
 plt.ylabel('Accuracy')
 plt.xlabel('Epoch / Communication Round')
 

diff --git a/results/5_clients_7_frames/raw_5_clients_no_split_iid_7_frames.py b/results/5_clients_7_frames/raw_5_clients_no_split_iid_7_frames.py
@@ -1,0 +1,10 @@
+2021-01-23 06:04:45,650 Sending /send_model_to_main_server command to secure aggregator...
+2021-01-23 06:04:45,841 Done
+2021-01-23 06:04:45,841 Elapsed time: 06:03:11
+2021-01-23 06:04:45,841 Sending /send_model_clients command to main server...
+2021-01-23 06:04:46,801 Done
+2021-01-23 06:04:46,801 Test result: {'msg': 'Model aggregation done!\nGlobal model written to persistent storage.', 'test_result': {'test-top1': 81.71722811588808, 'test-top3': 92.97723183820337, 'test_cluster-top1': 83.1999503691296, 'test_cluster-top3': 96.52583907190272}, 'elapsed_time': 21791.39351296425}
+2021-01-23 06:04:46,801 Elapsed time: 06:03:12
+2021-01-23 06:04:46,801 Iteration 49...
+2021-01-23 06:04:46,801 Sending iteration number to frontend
+2021-01-23 06:04:46,810 Sending /train_model request to clients...

diff --git a/results/README.md b/results/README.md
@@ -1,45 +1,7 @@
 # Experimental results
 
-## Experiment 1: 7 frames comparison
-<img src="./results/results_join_7_frames/result.png" width="100%">
+## Experiment 1: 1 input frame with 1 and 5 clients
+<img src="./results/5_clients_1_frames/result.png" width="100%">
 
-<!--
-## Experiment 0: Accuracy with one client over 30 communication rounds (No Federated Learning applied / control)
-<img src="./results_kcl_non_fedlearn/result.png" width="100%">
-
-## Experiment 1: Accuracy with two clients over 50 communication rounds. No dataset split and 1 epoch per CR
-<img src="./results_kcl_0/result.png" width="100%">
-
-## Experiment 2: Accuracy with two clients over 50 communication rounds. Non-IID-a dataset split and 1 epoch per CR
-<img src="./results_kcl_1/result.png" width="100%">
-
-## Experiment 3: Accuracy with two clients over 50 communication rounds. IID dataset split and 1 epoch per CR
-<img src="./results_kcl_2/result.png" width="100%">
-
-## Experiment 4: Accuracy with 5 clients over 50 communication rounds. No dataset split and 1 epoch per CR
-<img src="./results_kcl_3/result.png" width="100%">
-
-## Experiment 5: Accuracy with 9 clients in 3 servers over 50 communication rounds. No dataset split and 1 epoch per CR
-<img src="./results_kcl_9_clients/result.png" width="100%">
-
-## Experiment 6: Accuracy with one client over 30 communication rounds and 7 input frames (No Federated Learning applied / control)
-<img src="./results_kcl_7_frames_non_fedlearn/result.png" width="100%">
-
-## Experiment 7: Accuracy with one client over 30 communication rounds and 8 input frames (No Federated Learning applied / control)
-<img src="./results_kcl_8_frames_non_fedlearn/result.png" width="100%">
-
-## Experiment 8: Accuracy with 5 clients over 50 communication rounds and 7 input frames. No dataset split and 1 epoch per CR
-<img src="./results_kcl_7_frames_no_split_5_clients/result.png" width="100%">
-
-## Experiment 9: Accuracy with 5 clients over 50 communication rounds and 7 input frames. IID split and 1 epoch per CR
-<img src="./results_kcl_7_frames_iid_5_clients/result.png" width="100%">
-
-## Experiment 10: Accuracy with 5 clients over 50 communication rounds and 7 input frames. Non-IID-a split and 1 epoch per CR
-<img src="./results_kcl_7_frames_non_iid_a_5_clients/result.png" width="100%">
-
-## Experiment 11: Accuracy with 9 clients in 3 servers over 50 communication rounds and 7 input frames. No dataset split and 1 epoch per CR
-<img src="./results_kcl_9_clients_7_frames_no_split/result.png" width="100%">
-
-## Experiment 12: Accuracy with 9 clients in 3 servers over 50 communication rounds and 7 input frames. IID split and 1 epoch per CR
-<img src="./results_kcl_9_clients_7_frames_iid/result.png" width="100%">
--->
+## Experiment 2: 7 input frames with 1 and 5 clients
+<img src="./results/5_clients_7_frames/result.png" width="100%">
